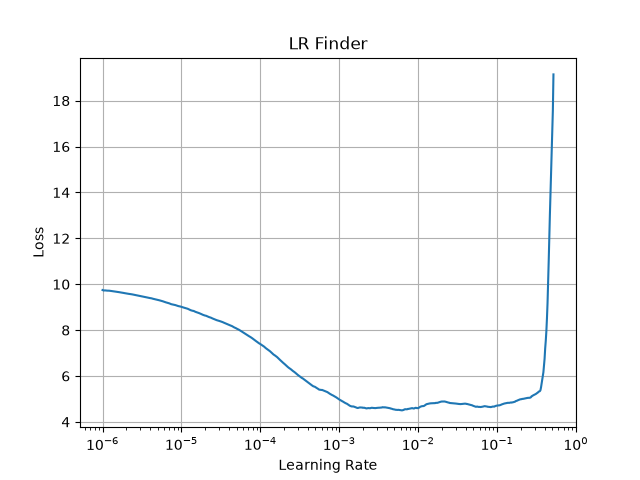
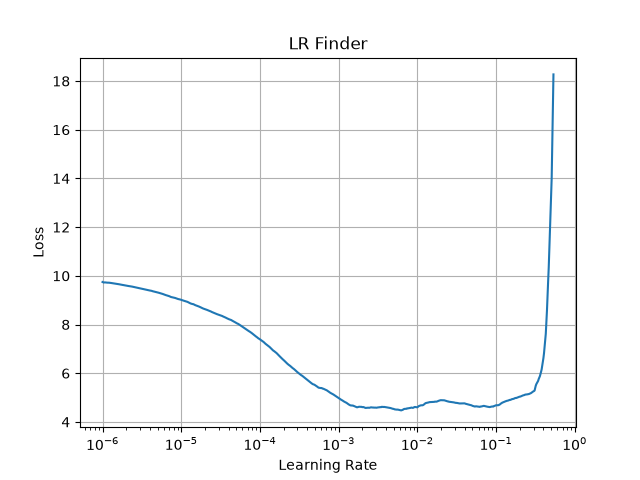
Stabilize LR finder and restore training state

diff --git a/training/trainer.py b/training/trainer.py
@@ -3,6 +3,7 @@
 # Optimizer / schedule
 # -----------------------------
 
+import copy
 from dataclasses import asdict
 import json
 import math
@@ -51,22 +52,33 @@ def build_lr_scheduler(optimizer, cfg: GriffinConfig):
         return 0.5 * (1.0 + math.cos(math.pi * progress))
     return torch.optim.lr_scheduler.LambdaLR(optimizer, lr_lambda)
 
-def run_lr_finder(model, optimizer, train_loader, device, cfg):
+def _clone_model_state_for_restore(model: nn.Module):
+    return {name: tensor.detach().cpu().clone() for name, tensor in model.state_dict().items()}
+
+
+def run_lr_finder(model, optimizer, train_loader, device, dtype, cfg):
     import math
 
     print("🔍 Running LR range test...")
 
+    was_training = model.training
+    model_state = _clone_model_state_for_restore(model)
+    optimizer_state = copy.deepcopy(optimizer.state_dict())
     model.train()
 
     start_lr = cfg.lr_finder_start
     end_lr = cfg.lr_finder_end
     num_steps = cfg.lr_finder_steps
+    if start_lr <= 0 or end_lr <= start_lr:
+        raise ValueError("LR finder requires 0 < lr_finder_start < lr_finder_end")
+    if num_steps < 2:
+        raise ValueError("LR finder requires lr_finder_steps >= 2")
 
-    gamma = (end_lr / start_lr) ** (1 / num_steps)
+    gamma = (end_lr / start_lr) ** (1 / (num_steps - 1))
     lr = start_lr
 
     for param_group in optimizer.param_groups:
-        param_group['lr'] = lr
+        param_group["lr"] = lr
 
     lrs = []
     losses = []
@@ -74,73 +86,102 @@ def run_lr_finder(model, optimizer, train_loader, device, cfg):
     avg_loss = 0.0
     beta = 0.98  # smoothing
 
-    step = 0
+    try:
+        for step, batch in enumerate(train_loader):
+            if step >= num_steps:
+                break
 
-    for batch in train_loader:
-        if step >= num_steps:
-            break
-
-        if isinstance(batch, dict):
+            if isinstance(batch, dict):
                 inputs = batch["input_ids"].to(device)
                 targets = batch["labels"].to(device)
-        elif isinstance(batch, (list, tuple)):
+            elif isinstance(batch, (list, tuple)):
                 inputs = batch[0].to(device)
                 targets = batch[1].to(device)
-        else:
+            else:
                 raise TypeError(f"Unsupported batch type: {type(batch)}")
 
-        optimizer.zero_grad()
+            optimizer.zero_grad(set_to_none=True)
 
-        loss = model(inputs, labels=targets)[1]
-        loss.backward()
-        optimizer.step()
+            with maybe_autocast(device, dtype):
+                loss = model(inputs, labels=targets)[1]
+            raw_loss = loss.item()
+            if not math.isfinite(raw_loss):
+                print("⚠️ Loss became non-finite, stopping LR test")
+                break
 
-        # EMA smoothing
-        avg_loss = beta * avg_loss + (1 - beta) * loss.item()
-        smoothed_loss = avg_loss / (1 - beta ** (step + 1))
+            loss.backward()
+            optimizer.step()
 
-        lrs.append(lr)
-        losses.append(smoothed_loss)
+            # EMA smoothing
+            avg_loss = beta * avg_loss + (1 - beta) * raw_loss
+            smoothed_loss = avg_loss / (1 - beta ** (step + 1))
 
-        # update LR exponentially
-        lr *= gamma
-        for param_group in optimizer.param_groups:
-            param_group['lr'] = lr
+            lrs.append(lr)
+            losses.append(smoothed_loss)
 
-        # stop early if exploding
-        if step > 50 and smoothed_loss > 4 * min(losses):
-            print("⚠️ Loss diverged early, stopping LR test")
-            break
+            # update LR exponentially
+            lr *= gamma
+            for param_group in optimizer.param_groups:
+                param_group["lr"] = lr
 
-        step += 1
+            # stop early if exploding
+            if step > 50 and smoothed_loss > 4 * min(losses):
+                print("⚠️ Loss diverged early, stopping LR test")
+                break
+    finally:
+        model.load_state_dict(model_state)
+        optimizer.load_state_dict(optimizer_state)
+        optimizer.zero_grad(set_to_none=True)
+        model.train(was_training)
 
-    print("✅ LR finder done")
+    print("✅ LR finder done; model and optimizer state restored")
     return lrs, losses
 
 def analyze_lr_curve(lrs, losses):
     import numpy as np
 
-    losses = np.array(losses)
-    lrs = np.array(lrs)
+    lrs = np.array(lrs, dtype=float)
+    losses = np.array(losses, dtype=float)
+    finite = np.isfinite(lrs) & np.isfinite(losses) & (lrs > 0)
+    lrs = lrs[finite]
+    losses = losses[finite]
+    if len(lrs) < 3:
+        raise RuntimeError("LR finder did not collect enough finite points to analyze")
 
-    min_loss_idx = losses.argmin()
+    # work in log-lr space
+    log_lrs = np.log10(lrs)
 
-    # find divergence point
-    for i in range(len(losses)):
-        if losses[i] > 4 * losses[min_loss_idx]:
+    warmup_skip = min(max(3, len(lrs) // 20), max(0, len(lrs) - 3))
+    div_idx = len(losses)
+    best_so_far = float("inf")
+    for i, loss in enumerate(losses):
+        best_so_far = min(best_so_far, loss)
+        if i > warmup_skip and loss > 4 * best_so_far:
             div_idx = i
             break
+
+    usable_end = max(warmup_skip + 3, div_idx)
+    usable_end = min(usable_end, len(lrs))
+    window = min(9, usable_end)
+    if window >= 3:
+        kernel = np.ones(window) / window
+        padded = np.pad(losses[:usable_end], (window // 2, window - 1 - window // 2), mode="edge")
+        curve_losses = np.convolve(padded, kernel, mode="valid")
     else:
-        div_idx = len(losses) - 1
+        curve_losses = losses[:usable_end]
 
-    lr_min_loss = lrs[min_loss_idx]
-    lr_diverge = lrs[div_idx]
-    suggested_lr = lr_diverge / 10
+    # Steepest descent before divergence, skipping the noisiest first few points.
+    grads = np.gradient(curve_losses, log_lrs[:usable_end])
+    idx = warmup_skip + int(np.argmin(grads[warmup_skip:usable_end]))
 
-    print(f"\n📊 LR FINDER RESULTS")
-    print(f"Min loss LR: {lr_min_loss:.2e}")
-    print(f"Divergence LR: {lr_diverge:.2e}")
-    print(f"✅ Suggested LR: {suggested_lr:.2e}\n")
+    suggested_lr = lrs[idx]
+    min_idx = int(np.argmin(losses[:usable_end]))
+
+    print("\n📊 LR FINDER RESULTS")
+    print(f"Steepest descent LR: {suggested_lr:.2e}")
+    print(f"Min loss LR: {lrs[min_idx]:.2e}")
+    if div_idx < len(losses):
+        print(f"Divergence LR: {lrs[div_idx]:.2e}")
 
     return suggested_lr
 
@@ -156,6 +197,7 @@ def plot_lr_finder(lrs, losses, save_path="lr_finder.png"):
     plt.grid()
 
     plt.savefig(save_path)
+    plt.close()
     print(f"📈 Saved LR curve to {save_path}")
 
 # -----------------------------
@@ -239,12 +281,16 @@ def train(cfg: GriffinConfig):
 
     # ---- LR FINDER HOOK ----
     if getattr(cfg, "lr_finder", False):
-        lrs, losses = run_lr_finder(model, optimizer, train_loader, device, cfg)
+        lrs, losses = run_lr_finder(model, optimizer, train_loader, device, dtype, cfg)
 
         suggested_lr = analyze_lr_curve(lrs, losses)
-        plot_lr_finder(lrs, losses)
+        plot_lr_finder(lrs, losses, outdir / "lr_finder.png")
 
         print(f"💡 Updating LR from {cfg.lr} → {suggested_lr}")
+        print(
+            f"[lr] scheduler warms up to this LR over {cfg.warmup_steps} optimizer updates "
+            f"({cfg.warmup_steps * cfg.grad_accum_steps} micro-batches with grad_accum_steps={cfg.grad_accum_steps})"
+        )
 
         cfg.lr = suggested_lr
 
@@ -267,6 +313,7 @@ def train(cfg: GriffinConfig):
     model.train()
     running_loss = 0.0
     optimizer.zero_grad(set_to_none=True)
+    optimizer_updates = getattr(scheduler, "last_epoch", 0)
 
     t0 = time.time()
     train_iter = iter(train_loader)
@@ -292,6 +339,7 @@ def train(cfg: GriffinConfig):
             optimizer.step()
             optimizer.zero_grad(set_to_none=True)
             scheduler.step()
+            optimizer_updates += 1
 
         if (step + 1) % cfg.log_interval == 0:
             dt = time.time() - t0
@@ -302,6 +350,7 @@ def train(cfg: GriffinConfig):
             lr = scheduler.get_last_lr()[0]
             print(json.dumps({
                 "step": step + 1,
+                "optimizer_updates": optimizer_updates,
                 "loss": round(cur_loss, 4),
                 "ppl": round(cur_ppl, 3) if math.isfinite(cur_ppl) else "inf",
                 "lr": lr,